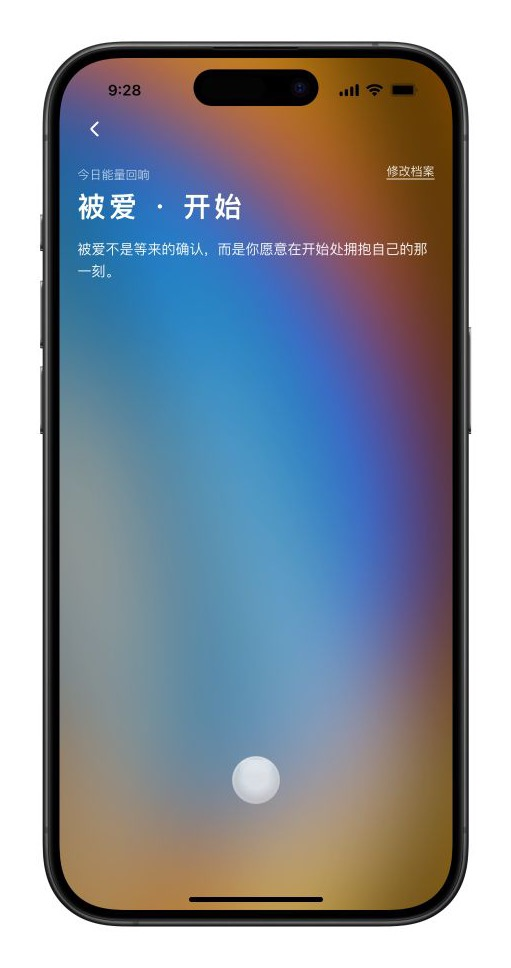
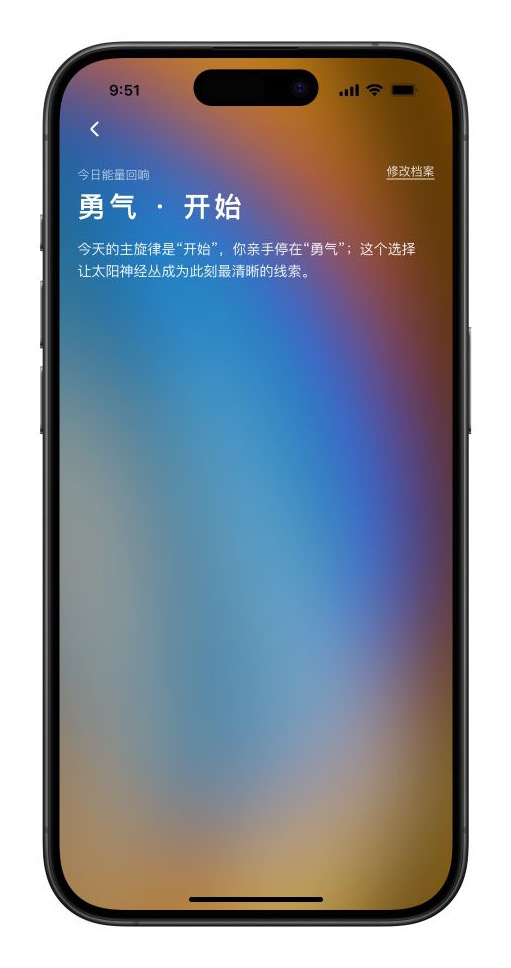
Slow and group result reveal

Changed region(s): [[0.1468, 0.186, 0.8513, 0.3099], [0.4403, 0.7748, 0.5577, 0.8368], [0.2348, 0.093, 0.2642, 0.124]]

diff --git a/haf-energy-journey-h5/src/Prototype.tsx b/haf-energy-journey-h5/src/Prototype.tsx
@@ -1726,9 +1726,9 @@ function ResultScreen() {
     }
     setRevealStage(0);
     const timers = [
-      window.setTimeout(() => setRevealStage(1), 140),
-      window.setTimeout(() => setRevealStage(2), 900),
-      window.setTimeout(() => setRevealStage(3), 1580),
+      window.setTimeout(() => setRevealStage(1), 220),
+      window.setTimeout(() => setRevealStage(2), 1500),
+      window.setTimeout(() => setRevealStage(3), 2700),
     ];
     return () => timers.forEach((timer) => window.clearTimeout(timer));
   }, [prefersReducedMotion]);
@@ -1739,7 +1739,7 @@ function ResultScreen() {
     filter: visible ? "blur(0px)" : "blur(7px)",
     transition: prefersReducedMotion
       ? { duration: .01 }
-      : { duration: .56, delay, ease: [.22, 1, .36, 1] as [number, number, number, number] },
+      : { duration: .82, delay, ease: [.22, 1, .36, 1] as [number, number, number, number] },
   });
   const revealInitial = (distance = 12) => prefersReducedMotion
     ? false
@@ -1769,16 +1769,26 @@ function ResultScreen() {
           <button onClick={() => flow.push(makeScreen("profile"))}>修改档案</button>
         </div>
         <section className="result-insight">
-          <div className="result-copy">
-            <motion.small initial={revealInitial()} animate={revealMotion(revealStage >= 1)}>今日能量回响</motion.small>
-            <motion.h1 initial={revealInitial()} animate={revealMotion(revealStage >= 1, .1)}>{insight.compositeTitle}</motion.h1>
-            <motion.p initial={revealInitial(9)} animate={revealMotion(revealStage >= 1, .22, 9)}>{energyReading}</motion.p>
-          </div>
-          <div className="energy-facets" aria-label="今日能量的三个线索" aria-hidden={revealStage < 2}>
-            <motion.span initial={revealInitial()} animate={revealMotion(revealStage >= 2)}><small>今日灵数</small><strong>{dayNumber}</strong><em>{insight.dailyTheme.display}</em></motion.span>
-            <motion.span initial={revealInitial()} animate={revealMotion(revealStage >= 2, .09)}><small>当下共鸣</small><strong>{insight.keyword.display}</strong><em>由你亲手选中</em></motion.span>
-            <motion.span initial={revealInitial()} animate={revealMotion(revealStage >= 2, .18)}><small>能量落点</small><strong>{insight.primaryChakra.zh}</strong><em>{insight.primaryChakra.themes.slice(0, 2).join(" · ")}</em></motion.span>
-          </div>
+          <motion.div
+            className="result-copy"
+            initial={revealInitial()}
+            animate={revealMotion(revealStage >= 1)}
+          >
+            <small>今日能量回响</small>
+            <h1>{insight.compositeTitle}</h1>
+            <p>{energyReading}</p>
+          </motion.div>
+          <motion.div
+            className="energy-facets"
+            initial={revealInitial()}
+            animate={revealMotion(revealStage >= 2)}
+            aria-label="今日能量的三个线索"
+            aria-hidden={revealStage < 2}
+          >
+            <span><small>今日灵数</small><strong>{dayNumber}</strong><em>{insight.dailyTheme.display}</em></span>
+            <span><small>当下共鸣</small><strong>{insight.keyword.display}</strong><em>由你亲手选中</em></span>
+            <span><small>能量落点</small><strong>{insight.primaryChakra.zh}</strong><em>{insight.primaryChakra.themes.slice(0, 2).join(" · ")}</em></span>
+          </motion.div>
         </section>
         <motion.section
           className="recommendations"
@@ -1817,7 +1827,7 @@ function ResultScreen() {
         <motion.footer
           className="result-actions"
           initial={revealInitial(12)}
-          animate={revealMotion(revealStage >= 3, .18, 12)}
+          animate={revealMotion(revealStage >= 3, 0, 12)}
           aria-hidden={revealStage < 3}
           inert={revealStage < 3}
           style={{ pointerEvents: revealStage >= 3 ? "auto" : "none" }}

diff --git a/haf-energy-journey-h5/design-qa.md b/haf-energy-journey-h5/design-qa.md
@@ -14,7 +14,7 @@
 
 - No open P0, P1, or P2 findings.
 - The final frame preserves the reference hierarchy, full-screen atmosphere, typography scale, three-card alignment, course-card proportions, carousel crop, and bottom safe-area buffer. Result text and course imagery differ only because both are generated from the current sensing result and catalog batch.
-- The new temporal hierarchy is clear: the reflection appears alone, the three evidence facets follow, and the course rail plus actions appear last. Every section reserves its final layout space from the first frame, so the sequence creates no vertical shift.
+- The revised temporal hierarchy is clear and deliberately grouped: the result label, title, and reflection appear together; all three evidence facets follow together; then the course rail and all lower actions arrive together. Every section reserves its final layout space from the first frame, so the sequence creates no vertical shift.
 - Course controls are `inert`, hidden from assistive technology, and ignore pointer events before the final reveal stage; they become interactive only with the course rail.
 
 ## Required fidelity surfaces
@@ -40,12 +40,23 @@
 - `03-stage.jpg`: course rail and bottom actions complete the composition and are interactive.
 - Console check: no errors or warnings.
 
+### Pass 3 — passed after user timing feedback
+
+- Finding: P2 motion rhythm. The first implementation completed near two seconds and staggered the title, reflection, and three facets item by item, making the reveal feel fragmented and hurried.
+- Fix: replaced all intra-group stagger with three coordinated wrappers. Stage 1 begins at 0.22s and resolves the label, title, and reflection together; stage 2 begins at 1.50s and resolves all three facets together; stage 3 begins at 2.70s and resolves the course rail and all bottom actions together. Each group uses the same 0.82s soft blur-and-rise transition, completing near 3.52s.
+- Post-fix first-frame sampling: group 1, facets, recommendations, and actions all measured opacity `0` at reveal stage `0`; recommendation and action pointer events were `none`.
+- `01-stage.jpg`: the complete reflection group is visible with every later group still absent.
+- `02-stage.jpg`: all three evidence facets are visible as one unit with recommendations and actions still absent.
+- `03-stage.jpg`: recommendation rail and all lower controls appear as one final unit and become interactive together.
+- The static comparison was regenerated with the latest final implementation screenshot. Dynamic result copy and catalog imagery differ from the source by expected sensing/catalog state, while the approved layout remains unchanged.
+- Console check: no application errors or warnings; only the normal Vite connection and React development-mode notices were present.
+
 ## Focused-region comparison
 
-No separate static crop was needed because this pass does not change typography, card anatomy, imagery or spacing. The affected surface is temporal and spans the full result view; the three equal-frame stage captures provide the focused comparison.
+No separate static crop was needed because this pass does not change typography, card anatomy, imagery or spacing. The affected surface is temporal and spans the full result view; the three equal-frame stage captures are the focused comparison evidence.
 
 ## Follow-up polish
 
-- P3: after device testing, the 0.9s and 1.58s stage boundaries can be adjusted by roughly ±0.15s if the reveal feels too ceremonial or too quick on a specific WebView.
+- P3: after device testing, the gaps between the 0.22s, 1.50s, and 2.70s group boundaries can be adjusted by roughly ±0.15s without changing the approved grouped choreography.
 
 final result: passed

diff --git a/haf-energy-journey-h5/AGENTS.md b/haf-energy-journey-h5/AGENTS.md
@@ -27,7 +27,7 @@
 - The user's selected word is the primary present-moment input. Personal Day supplies `今日主旋律`, Life Path and Personal Day softly choose a supporting chakra, and none is presented as deterministic fact.
 - `今日灵数` means Personal Day, not Life Path. Its approved v2 display words are `1 开始`, `2 连接`, `3 表达`, `4 安定`, `5 变化`, `6 关怀`, `7 内省`, `8 实现`, and `9 完成`. These are short HAF interpretations, not canonical scientific labels and not chakra names. Keep them distinct from all 70 sensing words.
 - Result synthesis uses three distinct layers: the released word supplies `当下共鸣`, that word directly supplies the primary `能量落点`, and Personal Day supplies `今日主旋律`. The hero combines them as `{用户选词} · {今日主旋律}`.
-- Reveal the result as one short visual narrative without changing its fixed layout: first the `今日能量回响` label, composite title, and core reflection; around 0.9 seconds later the three evidence facets; around 1.6 seconds later the course rail and bottom actions. Keep the full sequence near two seconds, reserve every section's space from the first frame to prevent layout shift, disable unrevealed course controls, and show everything immediately for reduced-motion users.
+- Reveal the result as three calm grouped beats without changing its fixed layout or staggering items inside a group: around 0.2 seconds, reveal the `今日能量回响` label, composite title, and core reflection together; around 1.5 seconds, reveal all three evidence facets together; around 2.7 seconds, reveal the course rail and all bottom actions together. Let each group resolve softly so the full sequence completes near 3.5 seconds, reserve every section's space from the first frame to prevent layout shift, disable unrevealed course controls, and show everything immediately for reduced-motion users.
 - Keep the selected result visual: elegant blue atmosphere, one blue-orange orb and flowing light, restrained white typography, translucent glass, and generous space.
 - The 2026-08-26 visual-refresh branch uses the supplied `iPhone 16 - 5.png`, `iPhone 16 - 6.png`, and Figma Octave node `10578:5067` as the visual source for the profile and result screens. Preserve their 393 × 852 full-screen blurred blue-orange atmosphere, centered profile fields, three translucent result facets, image-led horizontal course cards, pill CTA, and restrained white type; keep the protected mobile runtime, deterministic energy facts, and catalog-backed course data unchanged.
 - The energy orb must keep an opaque, saturated core. Motion should come from layered real-image halo and light passes rather than fading the entire orb; surrounding blue-orange light flow should feel slow, continuous, and luminous rather than like a floating background image.
